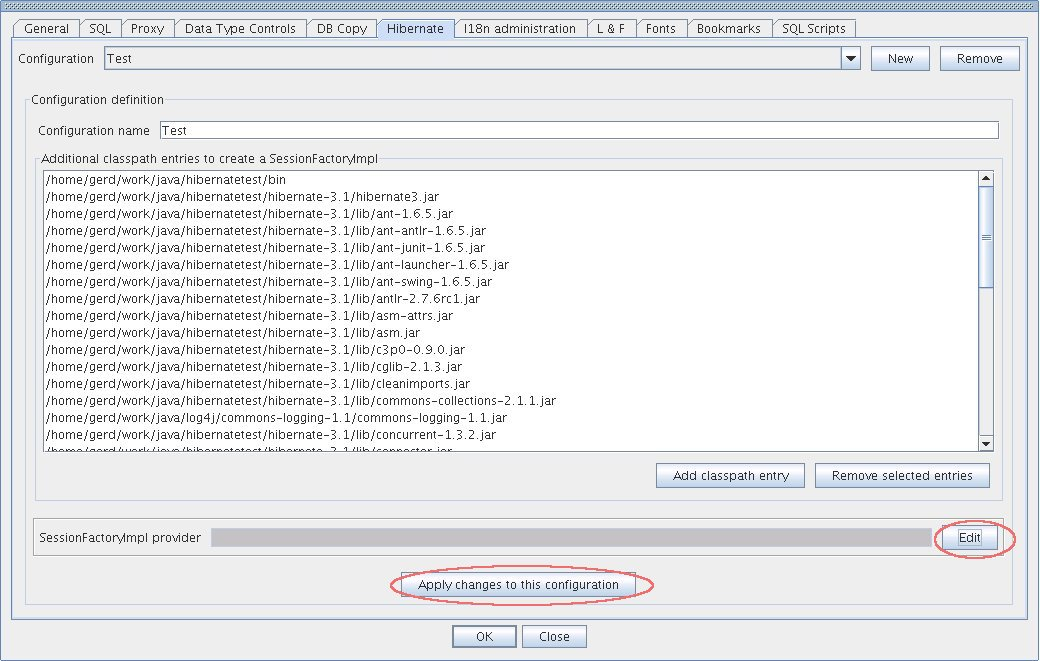
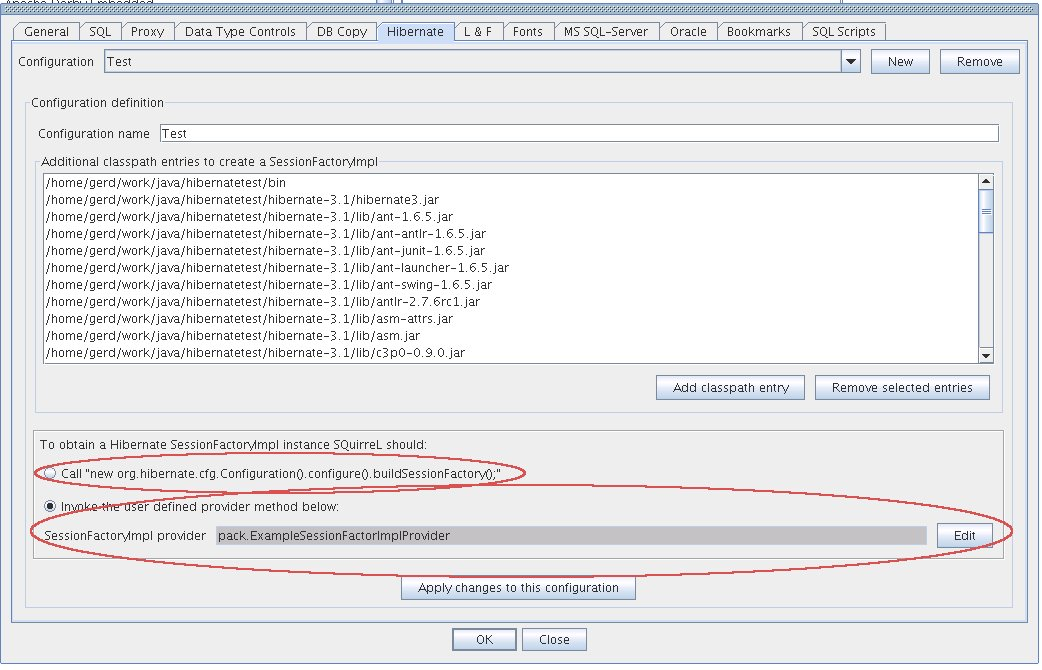
Default way to create SessionFactoryImpl

Changed region(s): [[0.0, 0.0, 1.0, 1.0], [0.0308, 0.121, 0.0615, 0.1513]]

diff --git a/sql12/plugins/hibernate/doc/readme.html b/sql12/plugins/hibernate/doc/readme.html
@@ -7,7 +7,7 @@ create at least one Hibernate configuration in SQuirreL's Global
 Preferences.</P>
 <P STYLE="margin-bottom: 0cm"><BR>
 </P>
-<P STYLE="margin-bottom: 0cm"><IMG SRC="hibernate.jpg" NAME="graphics1" ALIGN=LEFT  BORDER=0><BR CLEAR=LEFT><BR>
+<P STYLE="margin-bottom: cm"><IMG SRC="hibernate.jpg" NAME="graphics1" ALIGN=LEFT  BORDER=0><BR CLEAR=LEFT><BR>
 </P>
 <P STYLE="margin-bottom: 0cm">First, you must provide a name for
 the configuration. Next, you need to add all of the Hibernate library jars 
@@ -17,13 +17,18 @@ Classpath. Normally this is simply the same Classpath that you use in
 your project (Ant, Eclispe, NetBeans, IntelliJIDEA, etc.) for the Java compiler.</P>
 <P STYLE="margin-bottom: 0cm"><A NAME="DDE_LINK1"></A>Since there are
 multiple ways to obtain a Hibernate connection (SessionFactory), the
-Hibernate Plugin requires the user to provide this connection.
+Hibernate Plugin offers the most standard way to provide this connection by calling<BR>
+<code>new org.hibernate.cfg.Configuration().configure().buildSessionFactory();</code><BR>
+and offers the user to provide this connection by himself.
 This means that the user has to give the Plugin a class that has a
-static method with the following signature: 
+method with the following signature: 
 </P>
-<P STYLE="margin-bottom: 0cm"><FONT FACE="Courier, monospace">public
-org.hibernate.impl.SessionFactoryImpl getSessionFactoryImpl()</FONT></P>
-<P STYLE="margin-bottom: 0cm">The Hibernate Plugin will obtain the Hibernate
+
+<!--<P STYLE="margin-bottom: 0cm"><FONT FACE="Courier, monospace">-->
+<code>public org.hibernate.impl.SessionFactoryImpl getSessionFactoryImpl()</code><br>
+<!--</FONT></P><P STYLE="margin-bottom: 0cm">--> 
+
+The Hibernate Plugin will obtain the Hibernate
 connection using this function. The dialog to tell the Plugin the
 name of this class also allows you to create an example implementation with 
 a stub getSessionFactoryImpl() method.  Note that the class with the 
@@ -32,10 +37,6 @@ too.</P>
 <P STYLE="margin-bottom: 0cm"><BR>
 </P>
 <P STYLE="margin-bottom: 0cm"><IMG SRC="factory.jpg" NAME="graphics2" ALIGN=LEFT  BORDER=0><BR CLEAR=LEFT><BR>
-</P>
-<P STYLE="margin-bottom: 0cm"><I>Note: Be sure to click the &ldquo;Apply
-changes to this configuration&rdquo; button when you are done, or your changes
-won't be saved. </I>
 </P>
 <P STYLE="margin-bottom: 0cm"><BR>
 </P>

diff --git a/sql12/plugins/hibernate/src/net/sourceforge/squirrel_sql/plugins/hibernate/configuration/HibernateController.java b/sql12/plugins/hibernate/src/net/sourceforge/squirrel_sql/plugins/hibernate/configuration/HibernateController.java
@@ -27,7 +27,6 @@ public class HibernateController
 
    private HibernatePlugin _plugin;
    private HibernatePanel _panel;
-   //private HibernateConfig m_currConfig;
 
    static final String PERF_KEY_LAST_DIR = "Squirrel.Hibernate.lastDir";
    public static final String HIBERNATE_CONFIGS_XML_FILE = "hibernateConfigs.xml";
@@ -99,7 +98,20 @@ public class HibernateController
          }
       });
 
+      _panel.radUserDefProvider.addItemListener(new ItemListener()
+      {
+         public void itemStateChanged(ItemEvent e)
+         {
+            onUserDevProviderChanged(e);
+         }
+      });
 
+
+   }
+
+   private void onUserDevProviderChanged(ItemEvent e)
+   {
+      _panel.btnEditFactoryProviderInfo.setEnabled(_panel.radUserDefProvider.isSelected());
    }
 
    private void onRemoveConfig()
@@ -152,26 +164,25 @@ public class HibernateController
       }
    }
 
-   private void onApplyConfigChanges()
+   private boolean onApplyConfigChanges()
    {
       String provider = _panel.txtFactoryProvider.getText();
 
-      if(null == provider || 0 == provider.trim().length())
+      if(_panel.radUserDefProvider.isSelected() && (null == provider || 0 == provider.trim().length()))
       {
          // i18n[HibernateController.noProviderMsg=Missing SessionFactoryImplProvider .\nChanges cannot be applied.]
          JOptionPane.showMessageDialog(_plugin.getApplication().getMainFrame(), s_stringMgr.getString("HibernateController.noProviderMsg"));
-         return;
+         return false;
       }
 
-      String cfgName = (String) _panel.txtConfigName.getText();
+      String cfgName = _panel.txtConfigName.getText();
 
       if(null == cfgName || 0 == cfgName.trim().length())
       {
          // i18n[HibernateController.noCfgNameMsg=Not a valid configuration name\nChanges cannot be applied.]
          JOptionPane.showMessageDialog(_plugin.getApplication().getMainFrame(), s_stringMgr.getString("HibernateController.noProviderMsg"));
-         return;
+         return false;
       }
-
 
 
       HibernateConfiguration cfg = (HibernateConfiguration) _panel.cboConfigs.getSelectedItem();
@@ -194,12 +205,16 @@ public class HibernateController
       }
       cfg.setClassPathEntries(classPathEntries);
 
+      cfg.setUserDefinedProvider(_panel.radUserDefProvider.isSelected());
+
       if(wasNull)
       {
          _panel.cboConfigs.addItem(cfg);
          _panel.cboConfigs.setSelectedItem(cfg);
 
       }
+
+      return true;
    }
 
    private void onFactoryProviderInfo()
@@ -283,6 +298,9 @@ public class HibernateController
 
          _panel.txtFactoryProvider.setText(null);
 
+         _panel.radConfiguration.setSelected(true);
+         _panel.btnEditFactoryProviderInfo.setEnabled(false);
+
          return;
 
       }
@@ -299,6 +317,11 @@ public class HibernateController
          listModel.addElement(path);
       }
 
+      _panel.radUserDefProvider.setSelected(config.isUserDefinedProvider());
+
+      _panel.btnEditFactoryProviderInfo.setEnabled(config.isUserDefinedProvider());
+
+
       _panel.txtFactoryProvider.setText(config.getProvider());
    }
 
@@ -314,18 +337,22 @@ public class HibernateController
    {
       try
       {
-         File pluginUserSettingsFolder = _plugin.getPluginUserSettingsFolder();
-
-         File cfgsFile = new File(pluginUserSettingsFolder.getPath(), HIBERNATE_CONFIGS_XML_FILE);
-
-         XMLBeanWriter bw = new XMLBeanWriter();
-
-         for (int i = 0; i < _panel.cboConfigs.getItemCount(); i++)
+         if(onApplyConfigChanges())
          {
-            bw.addToRoot(_panel.cboConfigs.getItemAt(i));
-         }
+            File pluginUserSettingsFolder = _plugin.getPluginUserSettingsFolder();
 
-         bw.save(cfgsFile);
+            File cfgsFile = new File(pluginUserSettingsFolder.getPath(), HIBERNATE_CONFIGS_XML_FILE);
+
+            XMLBeanWriter bw = new XMLBeanWriter();
+
+            for (int i = 0; i < _panel.cboConfigs.getItemCount(); i++)
+            {
+               bw.addToRoot(_panel.cboConfigs.getItemAt(i));
+            }
+
+            bw.save(cfgsFile);
+
+         }
       }
       catch (Exception e)
       {

diff --git a/sql12/plugins/hibernate/src/net/sourceforge/squirrel_sql/plugins/hibernate/HibnerateConnector.java b/sql12/plugins/hibernate/src/net/sourceforge/squirrel_sql/plugins/hibernate/HibnerateConnector.java
@@ -2,12 +2,8 @@ package net.sourceforge.squirrel_sql.plugins.hibernate;
 
 import net.sourceforge.squirrel_sql.client.session.ISession;
 import net.sourceforge.squirrel_sql.plugins.hibernate.configuration.HibernateConfiguration;
-import net.sourceforge.squirrel_sql.plugins.hibernate.util.SessionFactoryImplFromSquirrelSessionProvider;
 
 import javax.swing.*;
-
-import org.hibernate.impl.SessionFactoryImpl;
-
 import java.io.File;
 import java.lang.reflect.Method;
 import java.net.URL;
@@ -50,36 +46,30 @@ public class HibnerateConnector
    {
       try
       {
-         String provider = cfg.getProvider();
-
-         
          URLClassLoader cl = getClassLoader(cfg);
-         
-         
-         
-         HibernateConnection con = null;
+         Thread.currentThread().setContextClassLoader(cl);
+
          Object sessionFactoryImpl = null;
-         
-         if (provider == null) {
-             //TODO:
-             //     When I attempt to use the user-specified classpath, for some 
-             //     reason Hibernate internally cannot cast it's Oracle9Dialect 
-             //     to Dialect which is the abstract base class - it throws a 
-             //     ClassCastException.  Yet without this, the user would be 
-             //     forced to package up their app and stick it into SQuirreL's
-             //     classpath somehow - lib or script.
-             Thread.currentThread().setContextClassLoader(cl);
-             sessionFactoryImpl = doConnectUsingSession(cfg, session);
-         } else {
-             Thread.currentThread().setContextClassLoader(cl);             
-             Class<?> providerClass = cl.loadClass(provider);
-    
-             Object sessionFactoryProviderImpl = providerClass.newInstance();
-    
-             Method meth = providerClass.getMethod("getSessionFactoryImpl", new Class[0]);
-             sessionFactoryImpl = meth.invoke(sessionFactoryProviderImpl, new Object[0]);
+
+         if (cfg.isUserDefinedProvider())
+         {
+            String provider = cfg.getProvider();
+            Class<?> providerClass = cl.loadClass(provider);
+
+            Object sessionFactoryProviderImpl = providerClass.newInstance();
+
+            sessionFactoryImpl =
+               new ReflectionCaller(sessionFactoryProviderImpl).callMethod("getSessionFactoryImpl").getCallee();
          }
-         con = new HibernateConnection(sessionFactoryImpl, cl);
+         else
+         {
+            Class<?> confiugrationClass = cl.loadClass("org.hibernate.cfg.Configuration");
+            ReflectionCaller rc = new ReflectionCaller(confiugrationClass.newInstance());
+
+            sessionFactoryImpl = rc.callMethod("configure").callMethod("buildSessionFactory").getCallee();
+         }
+
+         HibernateConnection con = new HibernateConnection(sessionFactoryImpl, cl);
          sendConnection(con);
              
          Thread.currentThread().setContextClassLoader(null);
@@ -106,17 +96,8 @@ public class HibnerateConnector
           }
        });       
    }
-   
-   private SessionFactoryImpl doConnectUsingSession(HibernateConfiguration cfg, 
-                                                    ISession session) {
-       SessionFactoryImplFromSquirrelSessionProvider prov = 
-           new SessionFactoryImplFromSquirrelSessionProvider();
-       prov.setHibernateConfig(cfg);
-       prov.setSession(session);
-       return prov.getSessionFactoryImpl();
-   }
-   
-   private URLClassLoader getClassLoader(HibernateConfiguration cfg) 
+
+   private URLClassLoader getClassLoader(HibernateConfiguration cfg)
        throws Exception 
    {
        String[] classpath = cfg.getClassPathEntries();

diff --git a/sql12/plugins/hibernate/src/net/sourceforge/squirrel_sql/plugins/hibernate/configuration/HibernatePanel.java b/sql12/plugins/hibernate/src/net/sourceforge/squirrel_sql/plugins/hibernate/configuration/HibernatePanel.java
@@ -22,6 +22,8 @@ public class HibernatePanel extends JPanel
    JButton btnClassPathRemove;
    JTextField txtConfigName;
    JButton btnApplyConfigChanges;
+   JRadioButton radConfiguration;
+   JRadioButton radUserDefProvider;
 
 
    public HibernatePanel()
@@ -70,7 +72,7 @@ public class HibernatePanel extends JPanel
 
 
       gbc = new GridBagConstraints(0,2,1,1,0,0,GridBagConstraints.NORTHWEST,GridBagConstraints.HORIZONTAL, new Insets(10,5,5,5),0,0);
-      ret.add(createSessionFactoryPanel(), gbc);
+      ret.add(createHowToCreateSessionFactoryPanel(), gbc);
 
       gbc = new GridBagConstraints(0,3,1,1,0,0,GridBagConstraints.CENTER,GridBagConstraints.NONE, new Insets(10,5,5,5),0,0);
       // i18n[HibernatePanel.applyConfigChanges=Apply changes to this configuration]
@@ -140,12 +142,46 @@ public class HibernatePanel extends JPanel
       return ret;
    }
 
-   private JPanel createSessionFactoryPanel()
+   private JPanel createHowToCreateSessionFactoryPanel()
    {
       JPanel ret = new JPanel();
 
       ret.setBorder(BorderFactory.createEtchedBorder());
       ret.setLayout(new GridBagLayout());
+
+      GridBagConstraints gbc;
+
+      gbc = new GridBagConstraints(0,0,1,1,0,0, GridBagConstraints.WEST,GridBagConstraints.NONE, new Insets(5,5,5,5),0,0);
+      // i18n[HibernatePanel.toObtainSessionFact=To obtain a Hibernate SessionFactoryImpl instance SQuirreL should:]
+      ret.add(new JLabel(s_stringMgr.getString("HibernatePanel.toObtainSessionFact")), gbc);
+
+
+      gbc = new GridBagConstraints(0,1,1,1,0,0, GridBagConstraints.WEST,GridBagConstraints.NONE, new Insets(5,5,5,5),0,0);
+      // i18n[HibernatePanel.toObtainSessionFactConfiguration=Call "new org.hibernate.cfg.Configuration().configure().buildSessionFactory();"]
+      radConfiguration = new JRadioButton(s_stringMgr.getString("HibernatePanel.toObtainSessionFactConfiguration"));
+      ret.add(radConfiguration, gbc);
+
+      gbc = new GridBagConstraints(0,2,1,1,0,0, GridBagConstraints.WEST,GridBagConstraints.NONE, new Insets(5,5,0,5),0,0);
+      // i18n[HibernatePanel.toObtainSessionFactFactoryProvider=Invoke the user defined provider method below:]
+      radUserDefProvider = new JRadioButton(s_stringMgr.getString("HibernatePanel.toObtainSessionFactFactoryProvider"));
+      ret.add(radUserDefProvider, gbc);
+
+
+      ButtonGroup btnGr = new ButtonGroup();
+      btnGr.add(radConfiguration);
+      btnGr.add(radUserDefProvider);
+      radConfiguration.setSelected(true);
+
+      gbc = new GridBagConstraints(0,3,1,1,1,0, GridBagConstraints.WEST,GridBagConstraints.HORIZONTAL, new Insets(0,5,5,5),0,0);
+      ret.add(createUserDefinedSessionFactoryPanel(), gbc);
+
+      return ret;
+
+   }
+
+   private JPanel createUserDefinedSessionFactoryPanel()
+   {
+      JPanel ret = new JPanel(new GridBagLayout());
 
       GridBagConstraints gbc;
       gbc = new GridBagConstraints(0,0,1,1,0,0, GridBagConstraints.WEST,GridBagConstraints.NONE, new Insets(5,5,5,5),0,0);
@@ -165,8 +201,6 @@ public class HibernatePanel extends JPanel
       btnEditFactoryProviderInfo = new JButton(s_stringMgr.getString("HibernatePanel.editFactoryProvider"));
       ret.add(btnEditFactoryProviderInfo, gbc);
 
-
       return ret;
-
    }
 }

diff --git a/sql12/plugins/hibernate/src/net/sourceforge/squirrel_sql/plugins/hibernate/configuration/HibernateConfiguration.java b/sql12/plugins/hibernate/src/net/sourceforge/squirrel_sql/plugins/hibernate/configuration/HibernateConfiguration.java
@@ -5,9 +5,7 @@ public class HibernateConfiguration
    private String _provider;
    private String _name;
    private String[] _classpathEntries = new String[0];
-
-   /** the root directory to recurse to find *.cfg.xml files */
-   private String _mappingFileRootDir = null;
+   private boolean _userDefinedProvider;
 
    public String getProvider()
    {
@@ -45,17 +43,14 @@ public class HibernateConfiguration
       return _name;
    }
 
-   /**
-    * @return the _mappingFileRootDir
-    */
-   public String getMappingFileRootDir() {
-       return _mappingFileRootDir;
+   public void setUserDefinedProvider(boolean userDefinedProvider)
+   {
+      _userDefinedProvider = userDefinedProvider;
    }
 
-   /**
-    * @param fileRootDir the _mappingFileRootDir to set
-    */
-   public void setMappingFileRootDir(String fileRootDir) {
-       _mappingFileRootDir = fileRootDir;
+
+   public boolean isUserDefinedProvider()
+   {
+      return _userDefinedProvider;
    }
 }
